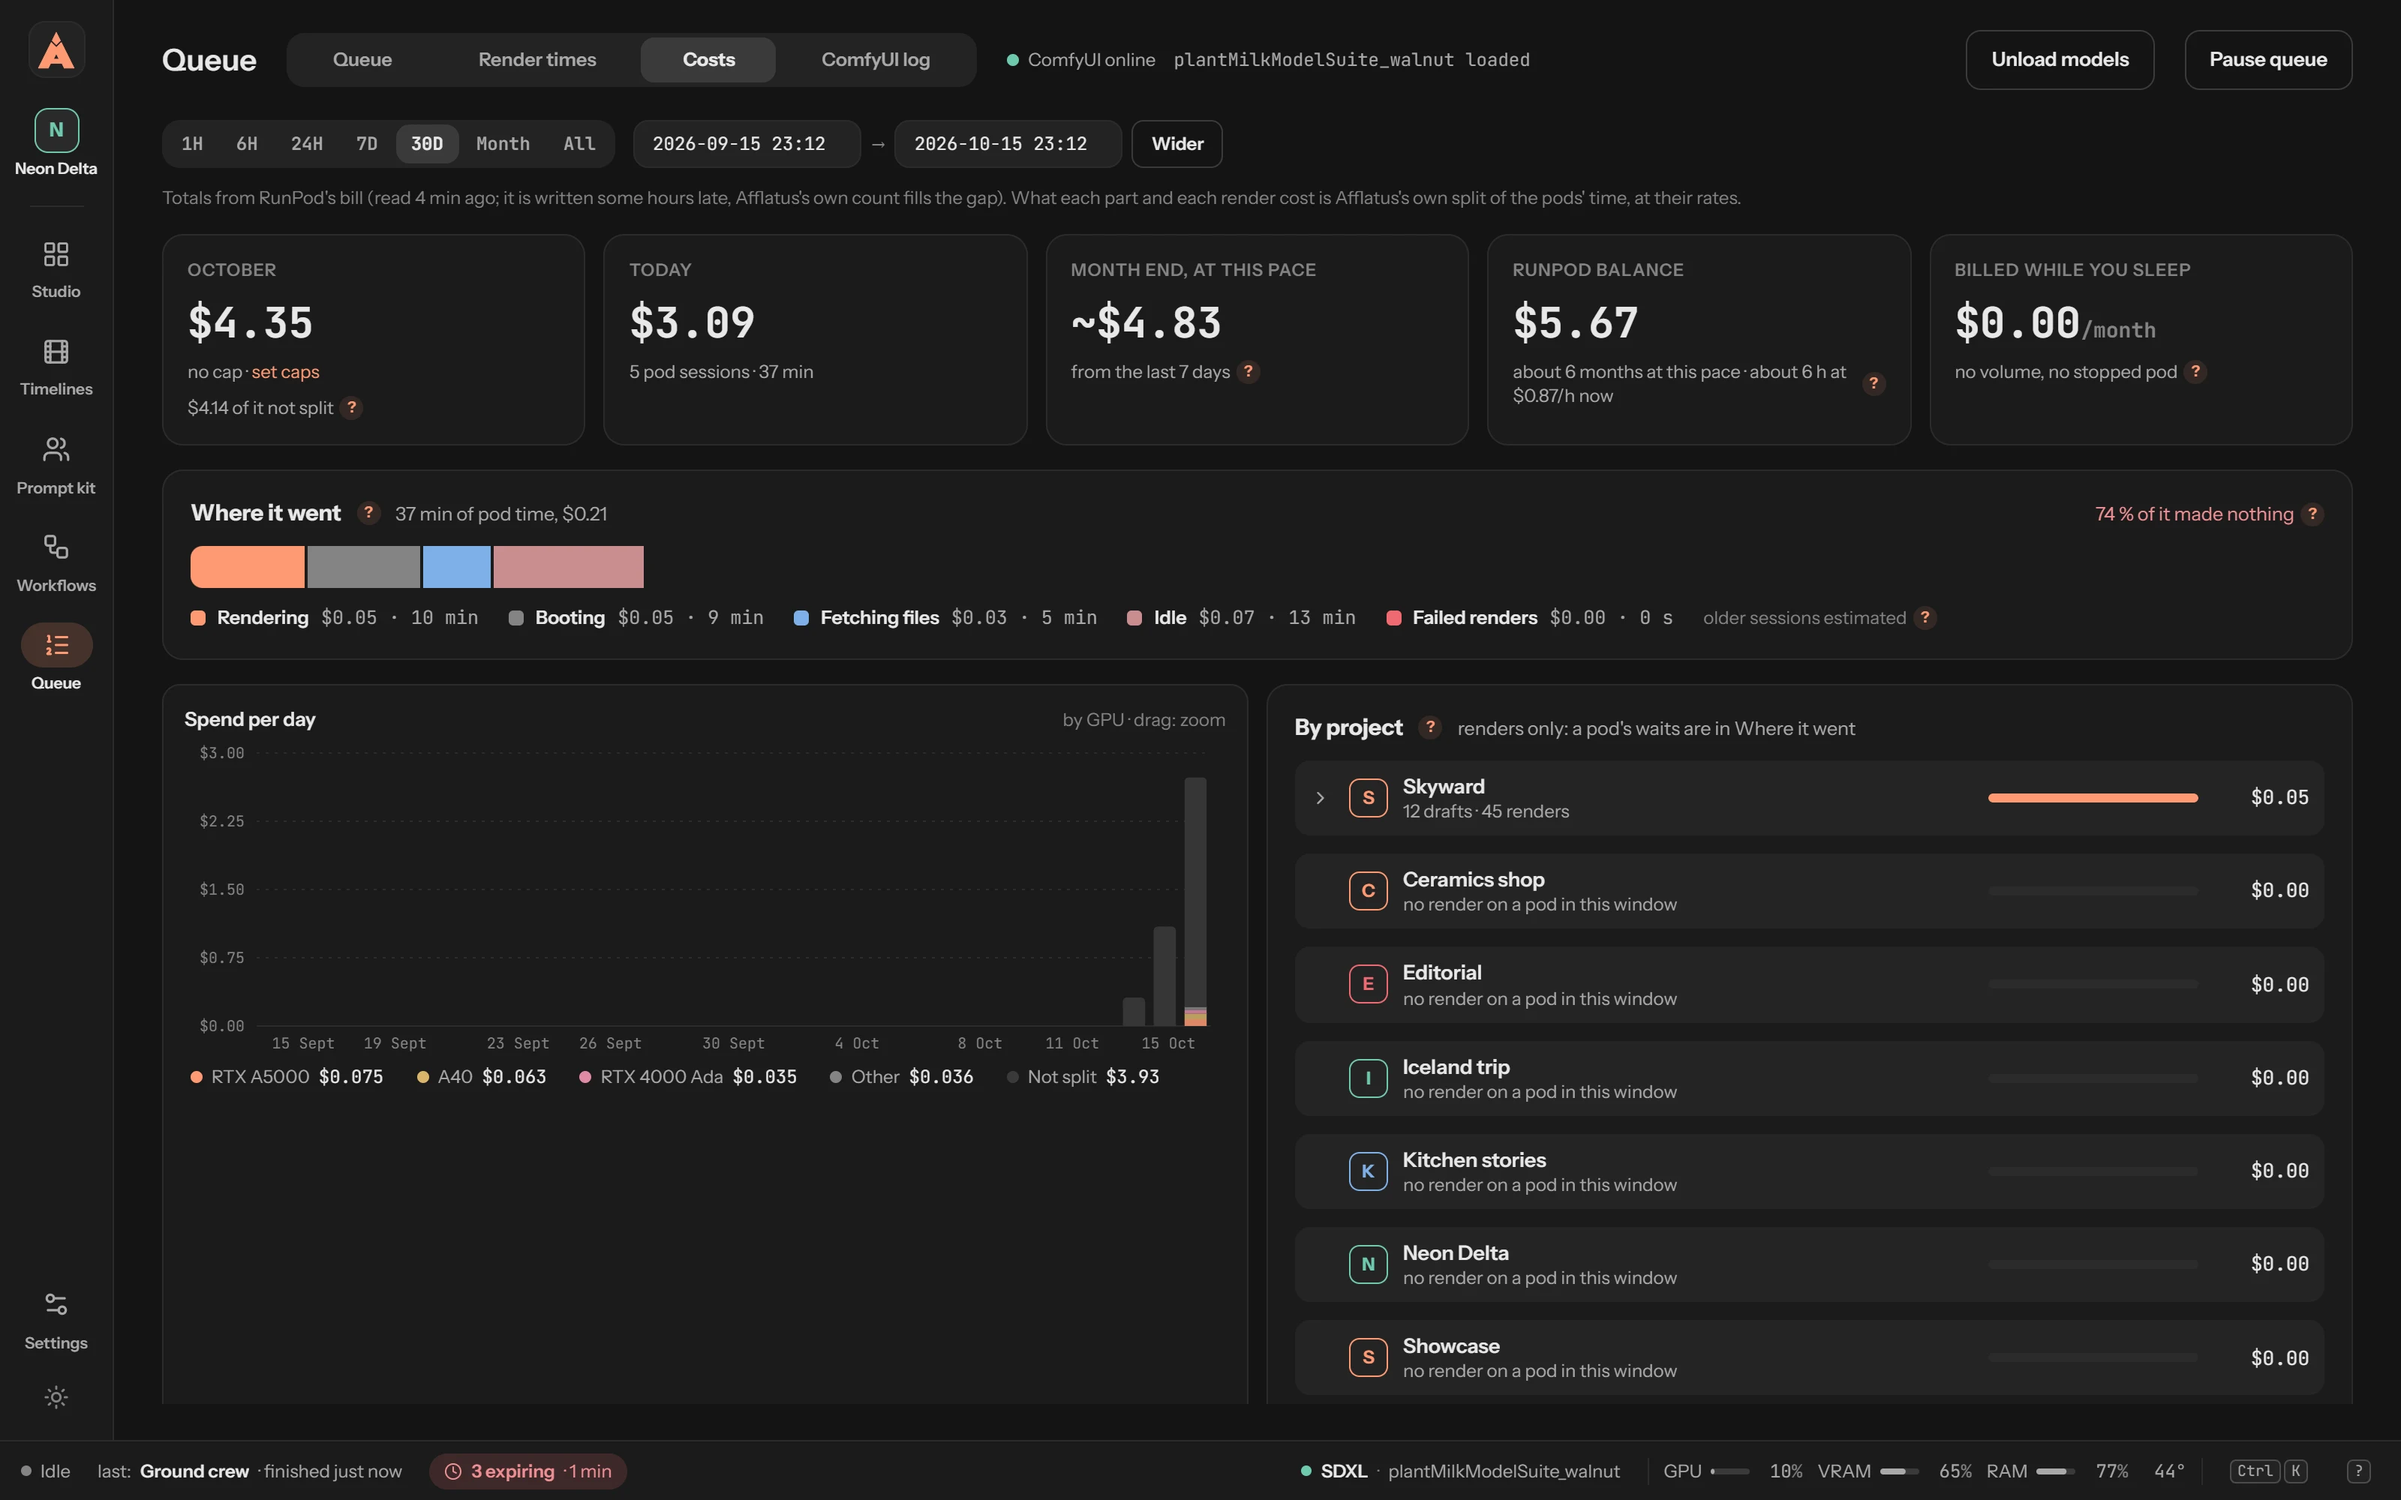
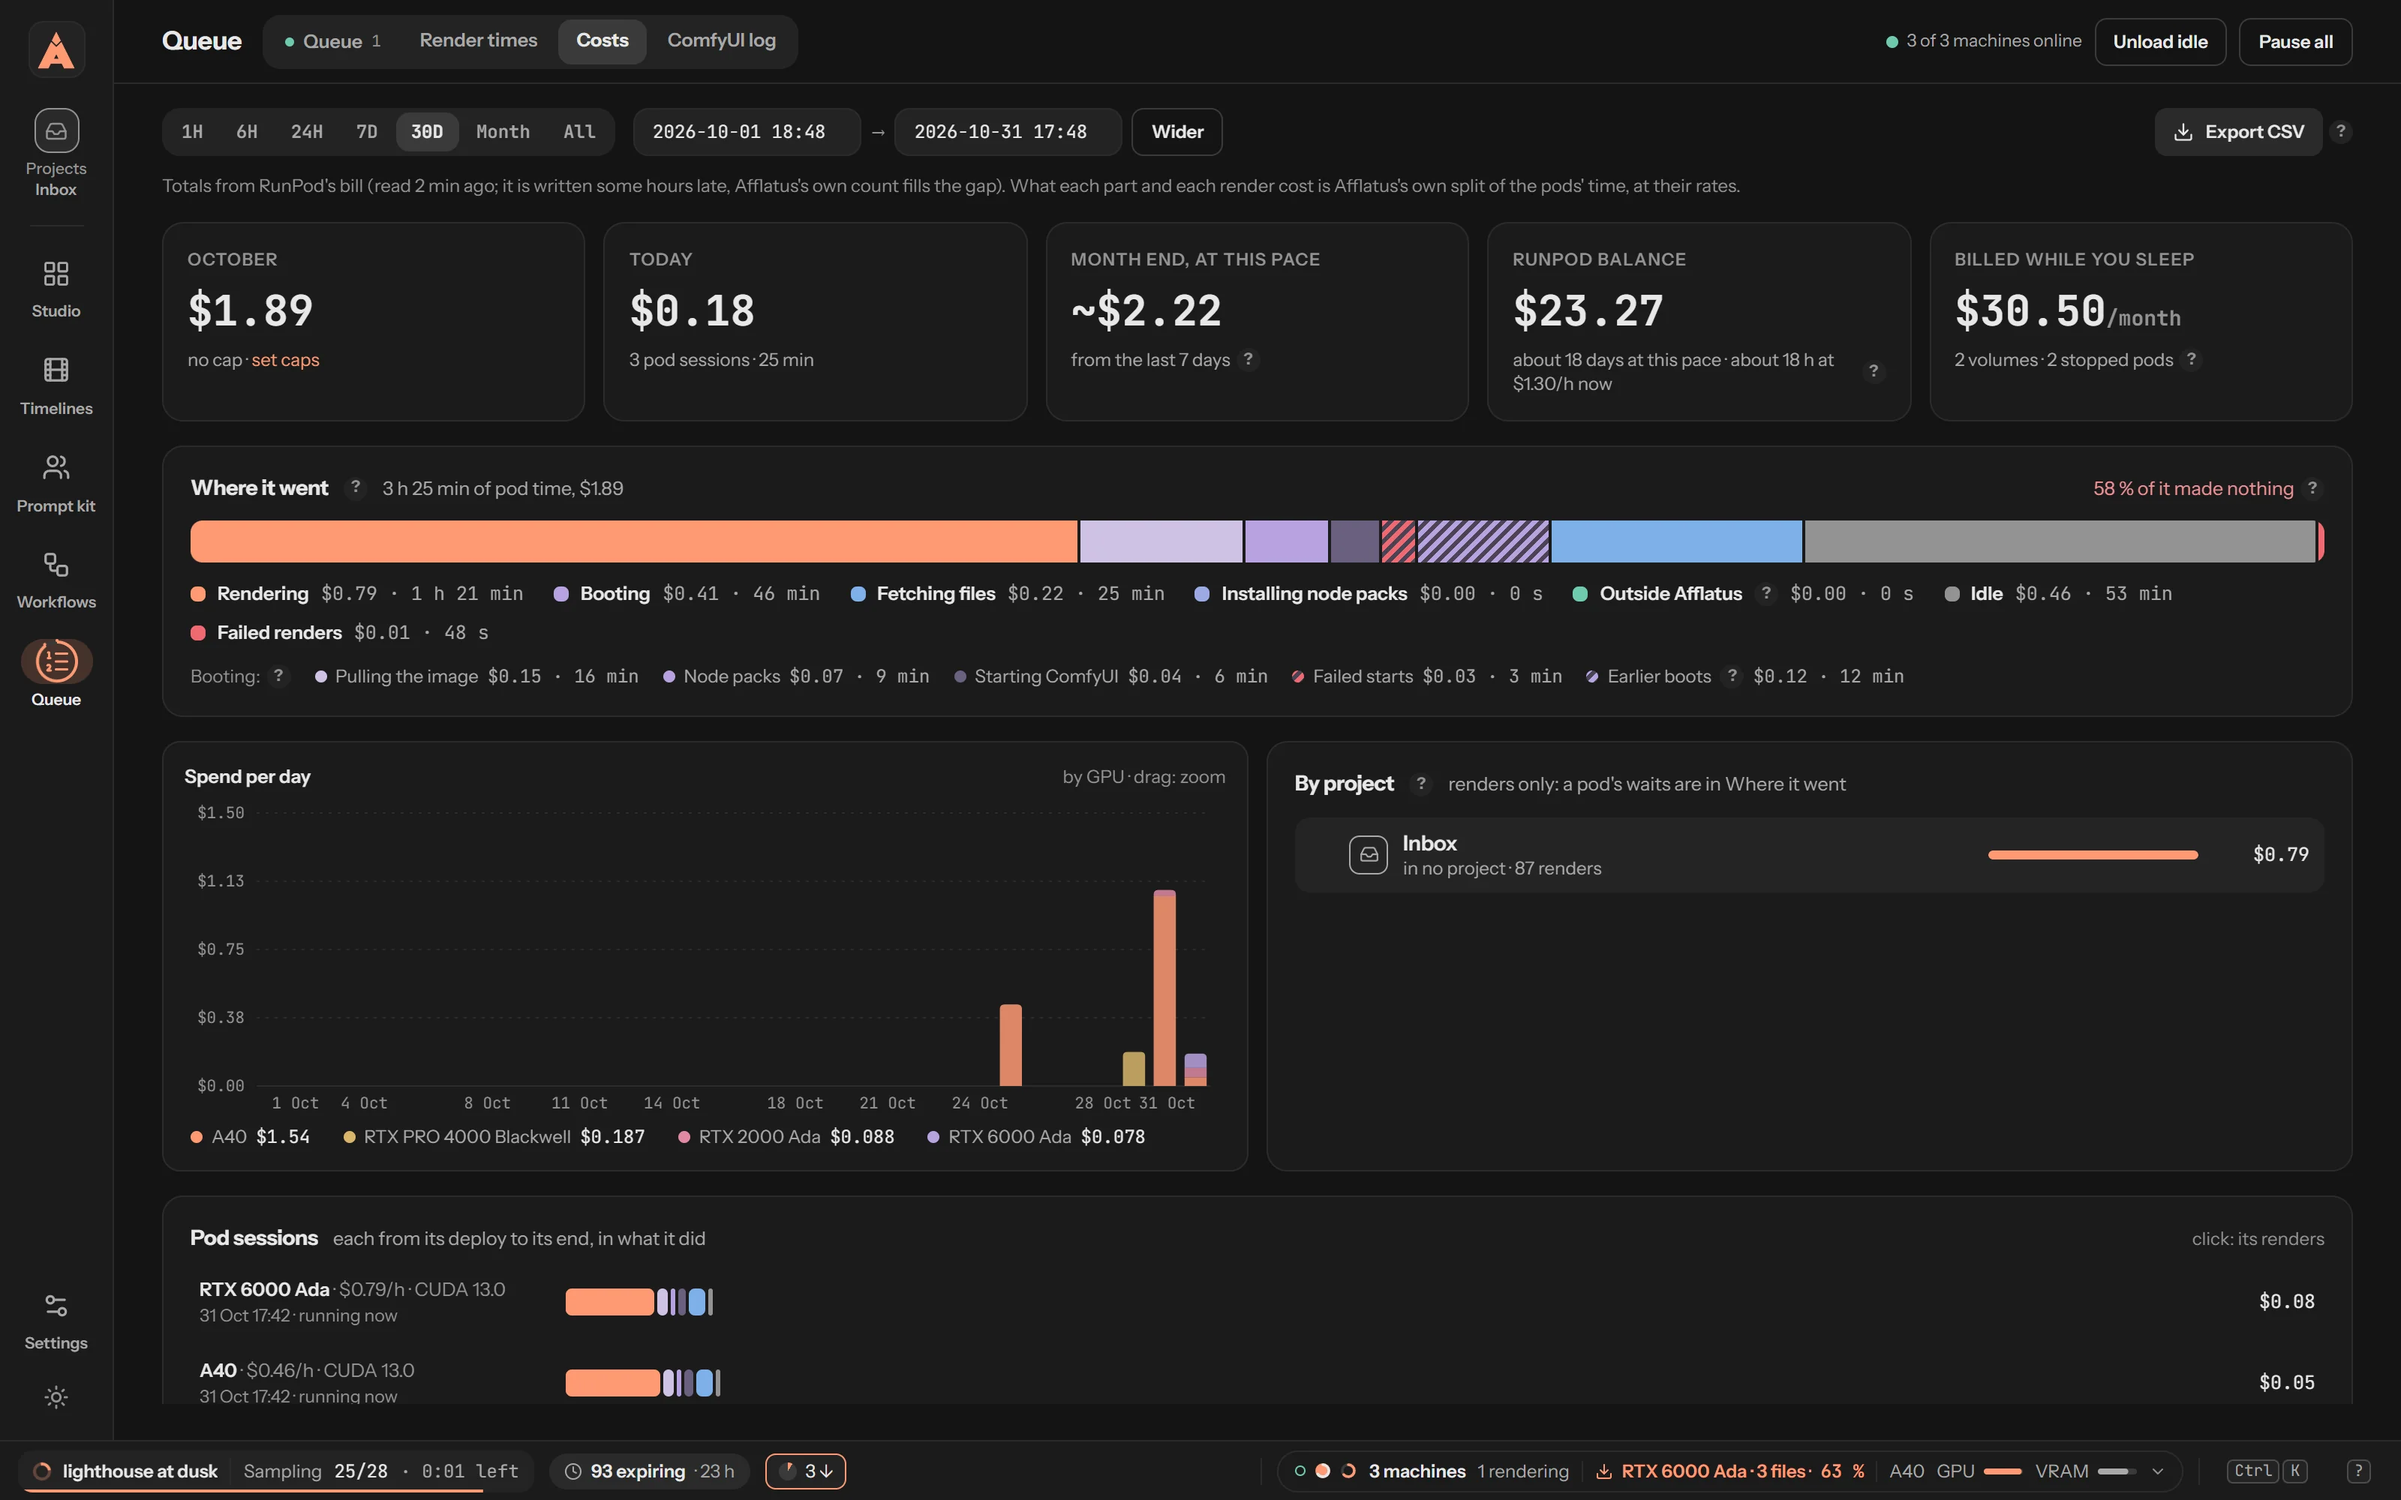
Pictures of rented GPUs on the demo (card #51): the queue's lanes, two pods getting their files, Costs, Deploy with the A40 picked; the demo's pod renders have a pace
- run.webp, pods.webp, costs.webp, deploy.webp shot on the demo (8720, DEMO_RUNPOD=1: pretend RunPod and pods, nothing billed), Studio Dark, 3200x2000; the README's captions say what they show now.
- scripts/demo-costs.ts: the pretend pod sessions' renders have a size, a length, a step time and a work, as demo-times.ts writes them, and the model the session fetched: Deploy and the hunt read a GPU's pace from the step for the work, so on a plain demo their $ / render was "—" for every GPU. Now the A40 is learned from its renders and the others guessed from it.
- The 21 GB file over 8 connections: about two minutes on a pod (it was measured at ~2 min 15), in the README and ComfyUI setup.

diff --git a/scripts/demo-costs.ts b/scripts/demo-costs.ts
@@ -47,15 +47,23 @@ export async function seedCosts(db: Db, now = Date.now()): Promise<void> {
       t += min * MIN;
     }
     const rows: Array<Tables["render_stats"]> = [];
+    // the model the session fetched, else the recipe's own name: what the render loaded
+    const file = p.files[0]?.[0].replace(/\.safetensors$/, "");
     for (const [recipe, min, count, failed] of p.renders) {
+      // a size and a length, and the step and work they give, as demo-times.ts writes them: the pace of each GPU (Deploy's
+      // and the hunt's $ / render) is read from the step for the work, and a render without them is never compared
+      const video = recipe.endsWith("video");
+      const [width, height, seconds] = video ? [1024, 576, 5] : [1024, 1024, 0];
       for (let k = 0; k < count; k++) {
         const bad = k >= count - failed;
         const ms = Math.round(min * MIN * (bad ? 0.4 : 0.9 + ((k * 7) % 5) / 20));
         t += ms;
         rows.push({
-          id: `demo-pod-${n++}`, owner_id: "local", recipe_id: recipe, family: recipe.split(".")[0]!, model: recipe, model_file: recipe, time_key: "", kind: bad ? null : recipe.endsWith("video") ? "video" : "image",
-          width: null, height: null, duration_ms: null, steps: 8, status: bad ? "failed" : "done", whole: 1, cold: k === 0 ? 1 : 0, waited_ms: 0, total_ms: ms, load_ms: 0, sample_ms: ms, refine_ms: 0, finish_ms: 0,
-          step_ms: null, expected_ms: null, vram_peak: null, heat_peak: null, asset_id: null, machine_id: machine, gpu: p.gpu, node_ms: null, energy_wh: null, power_avg_w: null, ram_peak: null, ram_total: null, work: null, created_at: new Date(t).toISOString(),
+          id: `demo-pod-${n++}`, owner_id: "local", recipe_id: recipe, family: recipe.split(".")[0]!, model: file ?? recipe, model_file: file ?? recipe,
+          time_key: `size=${width}x${height}${seconds ? `;seconds=${seconds}` : ""}`, kind: bad ? null : video ? "video" : "image",
+          width, height, duration_ms: seconds ? seconds * 1000 : null, steps: 8, status: bad ? "failed" : "done", whole: 1, cold: k === 0 ? 1 : 0, waited_ms: 0, total_ms: ms, load_ms: 0, sample_ms: ms, refine_ms: 0, finish_ms: 0,
+          step_ms: bad ? null : Math.round(ms / 8), expected_ms: null, vram_peak: null, heat_peak: null, asset_id: null, machine_id: machine, gpu: p.gpu, node_ms: null, energy_wh: null, power_avg_w: null, ram_peak: null, ram_total: null,
+          work: bad ? null : width * height * (seconds ? seconds * 24 : 1), created_at: new Date(t).toISOString(),
         });
         t += 20_000;
       }

diff --git a/README.md b/README.md
@@ -25,7 +25,7 @@ It is one small server and a folder of data, on your PC or in a container.
 
 ## What's new in 0.9
 
-- **Rented GPUs ranked by $ per render**, not by the hour: each GPU's time on the renders waiting, from your own renders, at its price, plus its share of the deploy. And big Civitai files reach a pod over 8 connections, a 21 GB model in about a minute and a half.
+- **Rented GPUs ranked by $ per render**, not by the hour: each GPU's time on the renders waiting, from your own renders, at its price, plus its share of the deploy. And big Civitai files reach a pod over 8 connections, a 21 GB model in about two minutes.
 - **The join panel says what a switch does before you click:** Seamless or Hard cut, and a seamless join that cut anyway flagged on the track with New take beside it.
 - **The four MiniMax H3 forms on one skeleton**, every LoRA a render loads shown in its list (Turbo's too), and the Face refine and upscale models chosen per clip.
 - **Settings › Model files:** every model file on this PC with how Afflatus used it; Delete to the Recycle Bin, Put back, Empty.
@@ -72,7 +72,7 @@ Clips are easy to make. A film is the hard part, and that is what the timeline i
 
 ## Run
 
-<p align="center"><img src="docs/media/run.webp" alt="The queue with a lane per machine: this PC and two rented pods, two of them rendering, the third fetching its checkpoint; each waiting render says which machine it goes to and when" width="820"></p>
+<p align="center"><img src="docs/media/run.webp" alt="The queue with a lane per machine: this PC and two rented pods, all three rendering; each waiting render says which machine it goes to and when, one of them while the A40 gets its files" width="820"></p>
 
 - **One smart queue.** Add every ComfyUI you have: a second GPU, another PC, a rented pod. Each job goes to the machine that will finish it first, counting whether that machine already holds the model and how fast it has been on your own renders. Pin a job to a machine, or send a whole timeline there.
 - **You see where the time went.** Before you press Render, the form says how long it will take, from your past renders on that machine. Afterwards, **Render times** accounts for every minute: GPU time, jobs and video made over any period, how much went to loading models, how far off the estimates were, the queue's waits, VRAM peaks and out-of-memory stops; per model, its share, its usual time and whether it ran slower than usual; a lane per model you can drag to zoom; and flags that name what went wrong and offer the fix, sort the queue by model, open the log. On every machine you run, rented ones included.
@@ -91,7 +91,7 @@ No big card, or a queue longer than the night? Rent one. Afflatus deploys a pod 
   > **RTX 2000 Ada found.** Deployed in EU-RO-1 at $0.24/h, after 1 min of hunting; 1 render waiting for it.
   > **RTX 2000 Ada terminated.** Why: idle 5 min. This run: $0.04.
 - **It stops itself.** After the idle time you set, when Afflatus goes quiet (a watchdog on the pod), when the pod never comes up or its GPU fails. Daily and monthly caps stop the pods once their render ends and refuse new deploys until the day or the month turns.
-<p align="center"><img src="docs/media/pods.webp" alt="Settings › ComfyUI: this PC beside a rented RTX A5000 that is fetching its models, locked, with its idle stop and watchdog" width="820"><br><sub>A pod three minutes in: its models arriving, locked, $0.012 so far.</sub></p>
+<p align="center"><img src="docs/media/pods.webp" alt="Settings › ComfyUI: this PC beside a rented A40 and an RTX 6000 Ada fetching their models, all locked, the A40 with its idle stop and watchdog" width="820"><br><sub>Two pods two minutes in: their models arriving, locked, $0.014 so far on the A40.</sub></p>
 
 - **You always know.** Telegram or Discord tells you when the hunt found a GPU, when a pod stops and when a cap is reached, and the Costs page shows RunPod's own bill, each render priced at its session's rate.
 

diff --git a/docs/comfyui-setup.md b/docs/comfyui-setup.md
@@ -25,7 +25,7 @@ When ComfyUI is on **another** machine:
 Each missing file in Settings › Models has a **Download** button, and a family that lacks files has **Get the minimum** (what its first operation needs, with the size) beside a quiet **Everything**. Who fetches it depends on where ComfyUI runs:
 
 - **ComfyUI on this machine:** Afflatus downloads the file itself, into ComfyUI's own `models/<folder>` (then its older name, such as `unet`, then the other places ComfyUI lists, `extra_model_paths.yaml` included). The place is shown beside each Download ("→ models\loras"); when ComfyUI reads that folder from several places, a menu picks one, kept per folder and machine (Settings › Models › Downloads › Places chosen, with Reset). Two files download at a time. A cut connection is picked up again where it stopped, up to five tries in a row. The free space is checked before, the size (and Hugging Face's SHA-256) after. The file is written as `<name>.part` and renamed once complete, so ComfyUI never lists half a model.
-- **ComfyUI on another machine, or a rented pod:** Afflatus's node pack downloads it there. A file from Civitai or Hugging Face comes straight from them: Afflatus asks for a signed link with your key and hands the pack only that link. From node pack 0.44.0, a file of 256 MB or more comes over 8 connections at once (a 21 GB Civitai model in about a minute and a half on a pod, where one connection took a quarter of an hour), or one connection when the site does not answer parts; it is checked against the SHA-256 Civitai lists before ComfyUI sees it. Any other link is fetched through Afflatus, so set `PUBLIC_URL` for ComfyUI to reach it. Update the pack from Settings › ComfyUI, then restart ComfyUI.
+- **ComfyUI on another machine, or a rented pod:** Afflatus's node pack downloads it there. A file from Civitai or Hugging Face comes straight from them: Afflatus asks for a signed link with your key and hands the pack only that link. From node pack 0.44.0, a file of 256 MB or more comes over 8 connections at once (a 21 GB Civitai model in about two minutes on a pod, where one connection took a quarter of an hour), or one connection when the site does not answer parts; it is checked against the SHA-256 Civitai lists before ComfyUI sees it. Any other link is fetched through Afflatus, so set `PUBLIC_URL` for ComfyUI to reach it. Update the pack from Settings › ComfyUI, then restart ComfyUI.
 - **Otherwise,** ComfyUI-Manager does it (below), into `models/<folder>`; there is no place to choose. It fetches one file at a time, and it holds a file from anywhere but Hugging Face in memory until the end before writing it, so a large one can fail; Afflatus says so before it starts.
 
 Most files on Civitai need an account: paste your Civitai API key in Settings › Models › Civitai & Hugging Face, with a Hugging Face token for gated files. Afflatus sends the key to Civitai only (never to the storage it redirects to), never to ComfyUI. A version sold on Civitai (Early Access, Buzz) is marked **Paid** or **Early Access · until <day>** in Find models and the command bar, and asked about before it is picked; its download is refused until you unlock it on its page.
